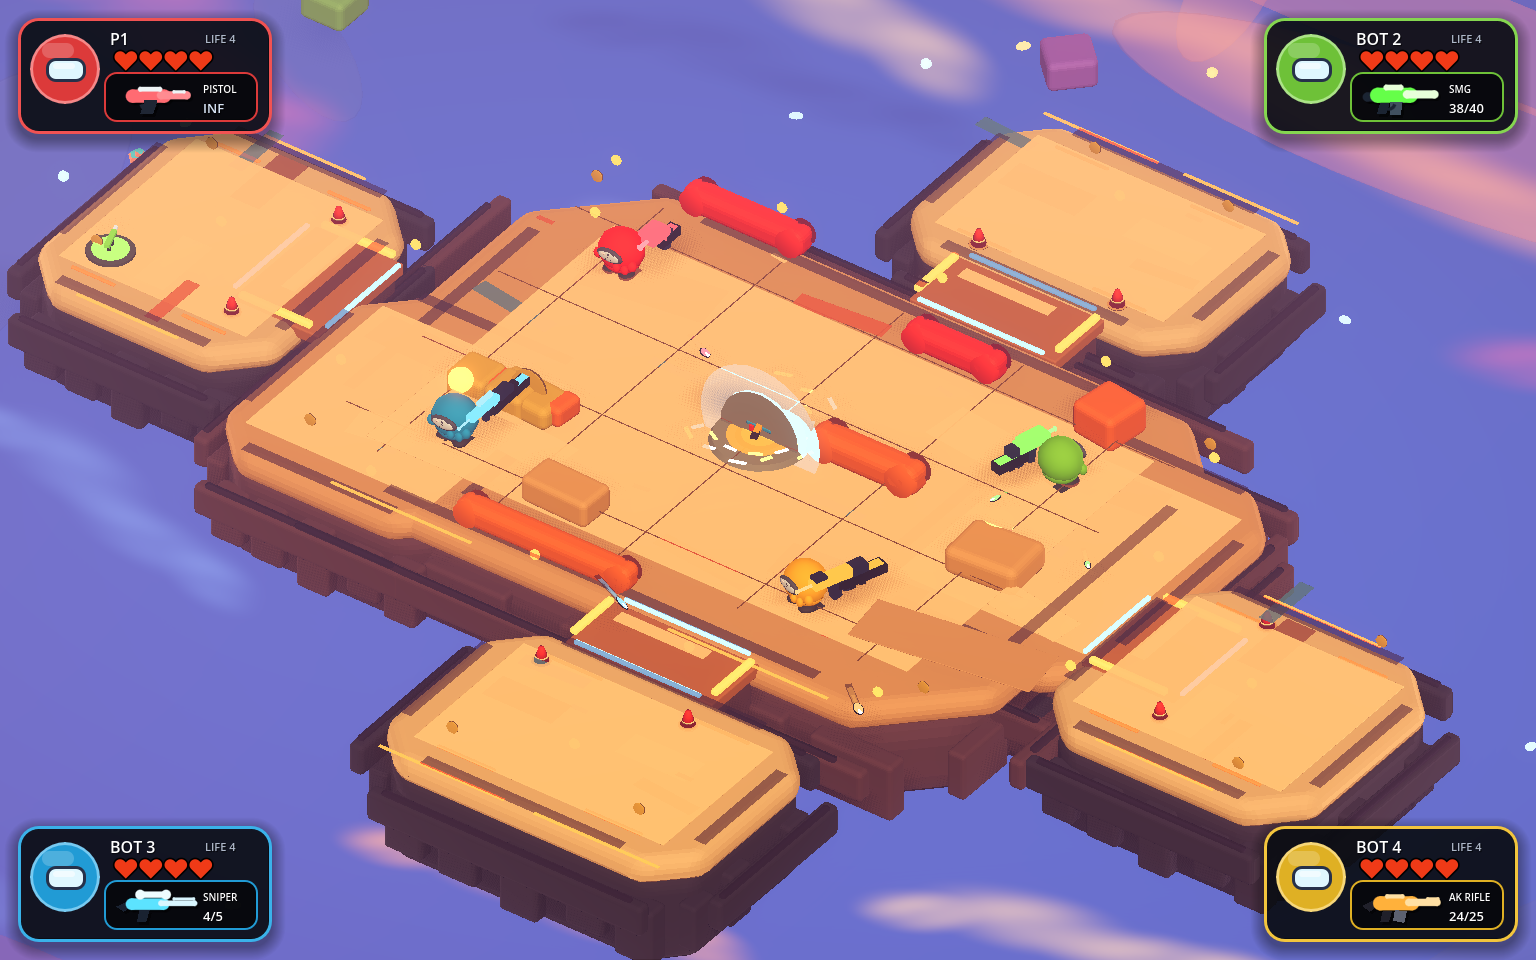
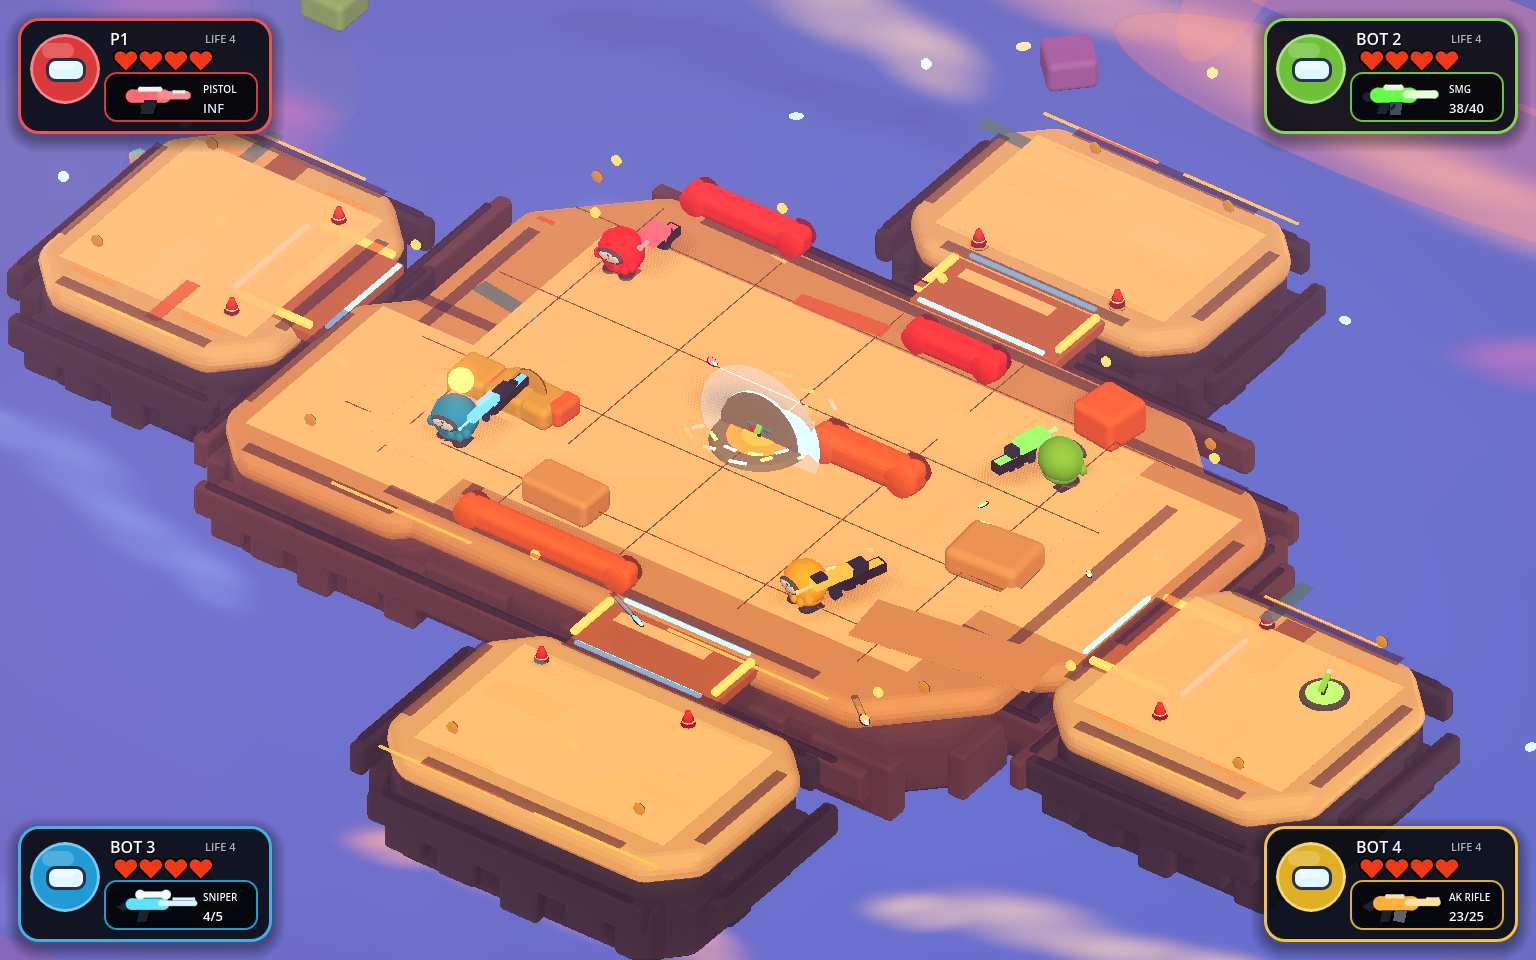
test: harden open ringout screenshot staging

diff --git a/docs/superpowers/plans/2026-07-09-open-ringout-a1-art-upgrade.md b/docs/superpowers/plans/2026-07-09-open-ringout-a1-art-upgrade.md
@@ -4,6 +4,8 @@
 
 **Goal:** 将默认 `Open Ring-Out Slice` 升级成 A1 高级玩具天空岛英雄主视觉资产，同时保持现有碰撞、出生点、武器点、镜头和回归验证稳定。
 
+**Integration dependency:** This art pass assumes the Demo-stage Open Ring-Out baseline is already merged or present in the integration workspace, including `scenes/maps/open_ringout_slice.tscn`, `scripts/maps/open_ringout_slice.gd`, `scripts/tests/run_open_ringout_slice_verifier.ps1`, and the runtime/gameplay support files that define the current playable slice.
+
 **Architecture:** Godot 继续拥有玩法层、碰撞层、角色、武器、HUD、灯光和截图验证；Blender Python 生成的 GLB 作为 `OpenRingoutBlenderVisuals` 下的主要可见舞台。执行顺序先补 Open Ring-Out 专用 Blender 美术验收门槛，再重做 `tools/build_open_ringout_blender_visuals.py` 的平台、桥、边缘、深渊和外围道具资产，最后通过 Godot 导入、自动验证和截图人工评分。
 
 **Tech Stack:** Godot 4.6 GDScript, Blender 5.1 Python, glTF/GLB, PowerShell test runners, existing `open_ringout_slice` scene/runtime.

diff --git a/docs/workflow/open-ringout-a1-art-review-2026-07-09.md b/docs/workflow/open-ringout-a1-art-review-2026-07-09.md
@@ -2,6 +2,8 @@
 
 Screenshot: `reports/open_ringout_slice_screenshot.png`
 
+Dependency Note: This art pass assumes the Demo-stage Open Ring-Out baseline is already merged or present in the integration workspace, including `scenes/maps/open_ringout_slice.tscn`, `scripts/maps/open_ringout_slice.gd`, `scripts/tests/run_open_ringout_slice_verifier.ps1`, and the runtime/gameplay support files for the playable slice.
+
 Decision: PASS
 Total Score: 35/40
 
